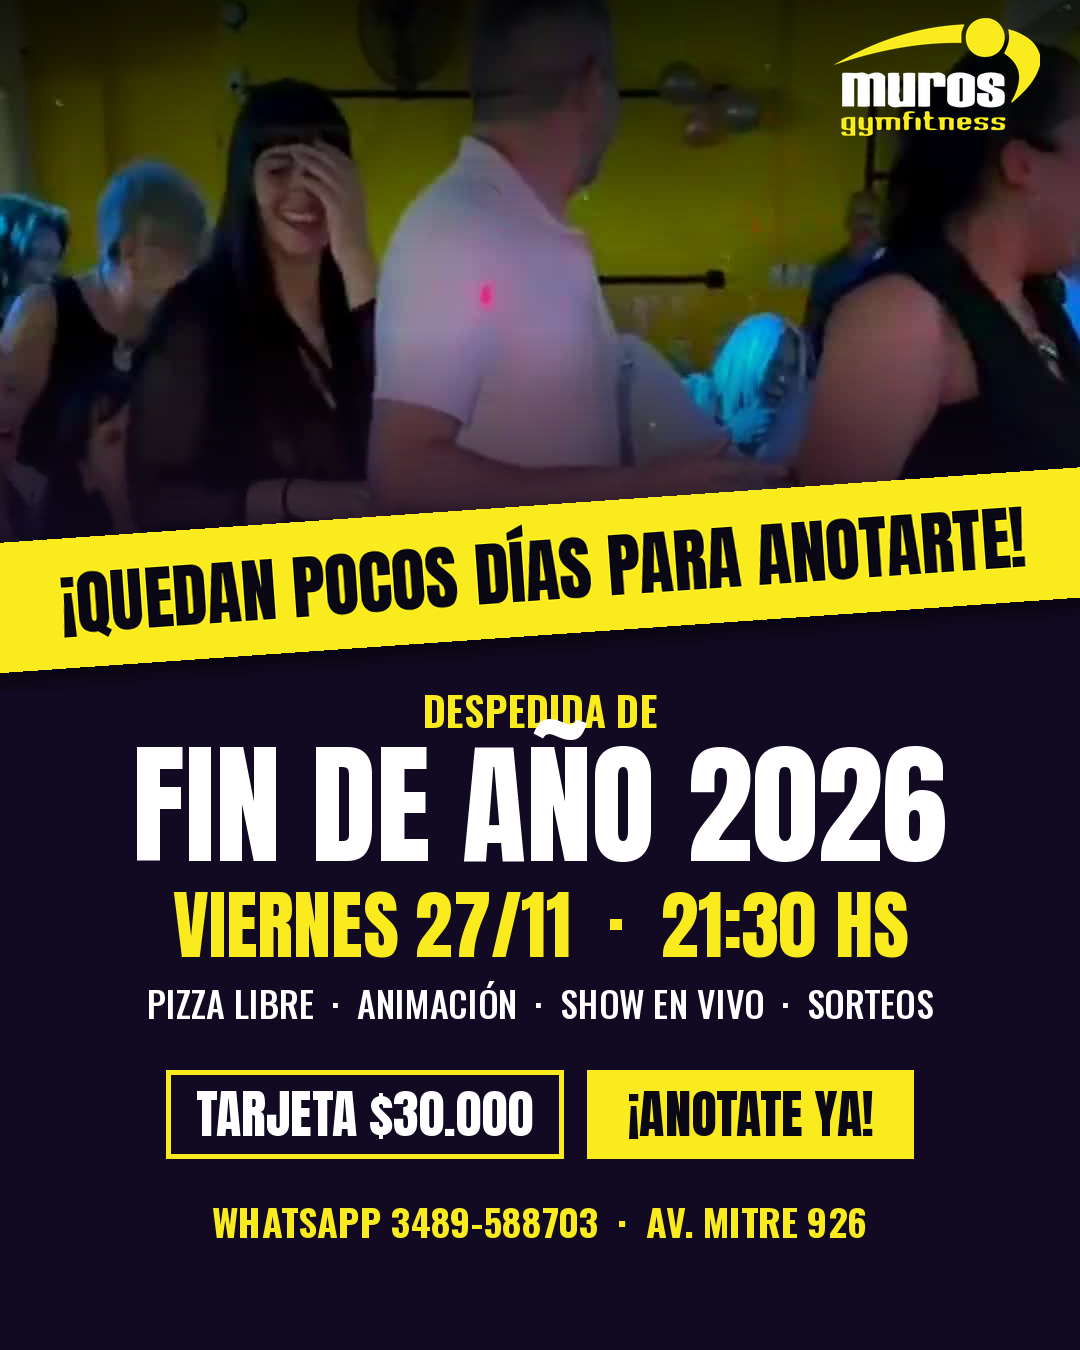
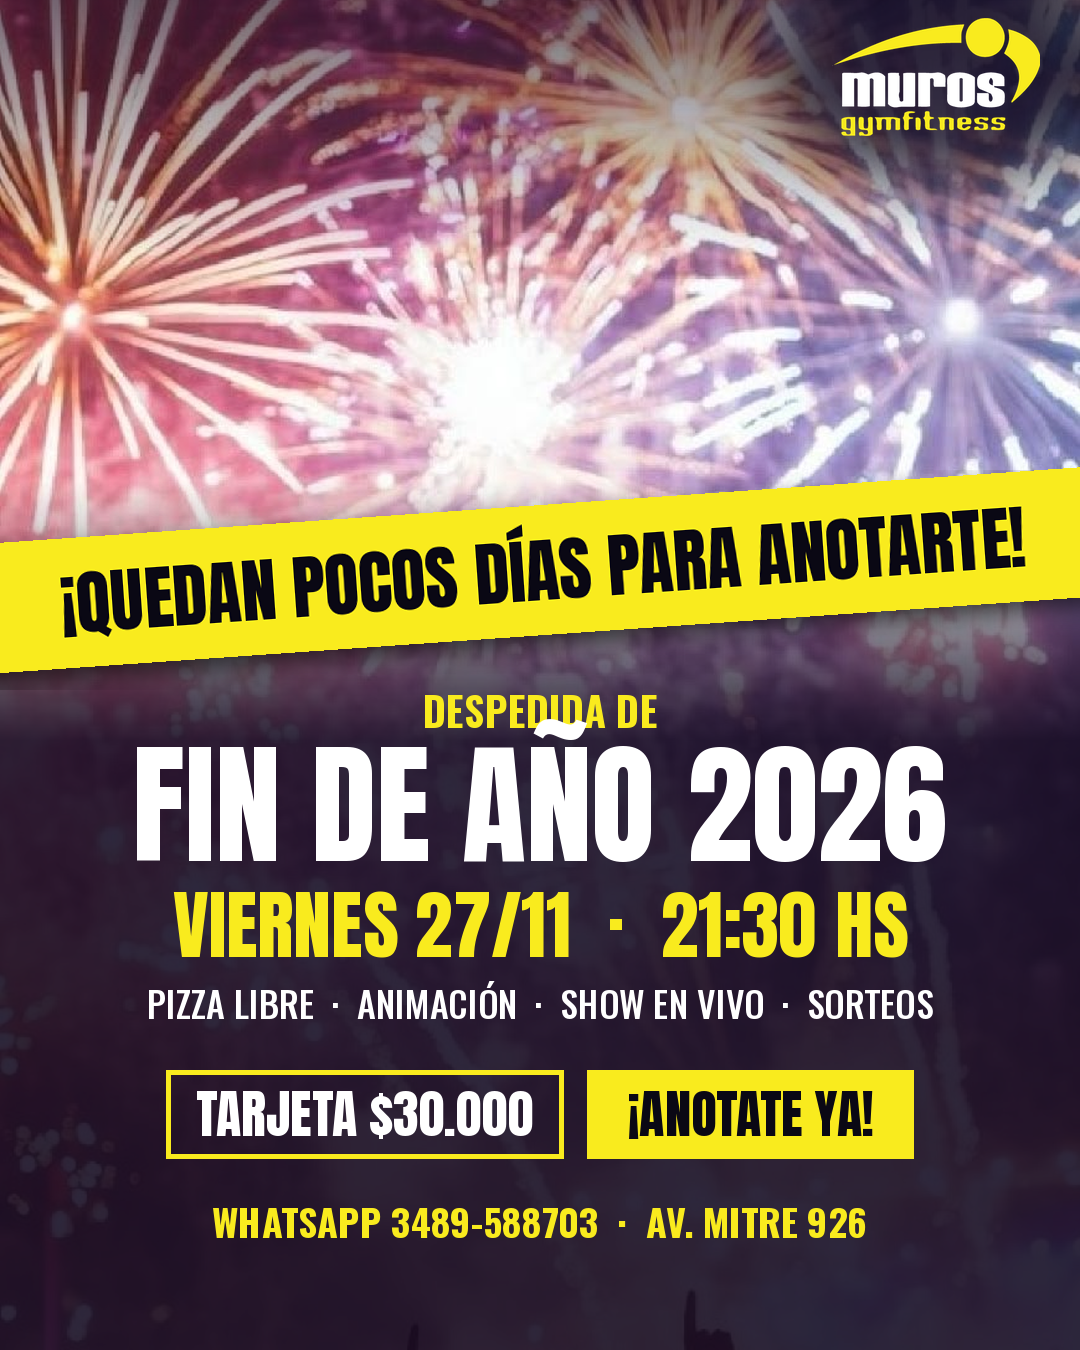
Party flyer: fireworks background photo
Claude-Session: https://claude.ai/code/session_013NcRD2AFDQkC3HztVtgsXw

diff --git a/posts/build_fiesta_ultimos_dias.py b/posts/build_fiesta_ultimos_dias.py
@@ -10,22 +10,27 @@ OSW=lambda sz,w=700: ImageFont.truetype(os.path.join(fd,f"oswald-latin-{w}-norma
 fr=lambda t: Image.open(os.path.join(here,"fiesta-frames",f"f_{t}.jpg")).convert("RGB")
 
 img=Image.new("RGBA",(W,H),BG+(255,))
-# hero: dance-floor frame, cropped clear of the video's own captions, fading into the background
-HH=660 if STORY else 600  # crop ends above the video's own captions
-hero=fr("1.8").crop((0,200,1080,200+HH))  # starts below the video's own corner logo  # native width, no upscaling: stays sharp
-hero=ImageEnhance.Brightness(hero).enhance(0.9)
-mask=Image.new("L",(W,HH),255); md=ImageDraw.Draw(mask)
-for y in range(HH):
-    md.line([(0,y),(W,y)],fill=int(255*min(1,(HH-y)/(HH*0.45))))
-img.paste(hero,(0,0),mask)
-top=Image.new("RGBA",(W,H),(0,0,0,0)); td=ImageDraw.Draw(top)
-for y in range(260):
-    td.line([(0,y),(W,y)],fill=(0,0,0,int(170*(1-y/260))))
-img=Image.alpha_composite(img,top)
+# background: fireworks photo, full bleed, darkened toward the bottom for the copy
+HH=900 if STORY else 600   # where the urgency ribbon sits
+src=Image.open(os.path.join(here,"fotos","fuegos-artificiales.jpg")).convert("RGB")
+sc=max(W/src.width,H/src.height); bgp=src.resize((round(src.width*sc),round(src.height*sc)),Image.LANCZOS)
+ox=(bgp.width-W)//2; oy=0 if STORY else round(bgp.height*0.08)
+img=bgp.crop((ox,oy,ox+W,oy+H)).convert("RGBA")
+ov=Image.new("RGBA",(W,H),(0,0,0,0)); od=ImageDraw.Draw(ov)
+for y in range(H):
+    a_=0
+    if y<260: a_=int(150*(1-y/260))
+    g0=HH-120
+    if y>g0: a_=max(a_,int(225*min(1,(y-g0)/260)))
+    od.line([(0,y),(W,y)],fill=BG+(a_,))
+img=Image.alpha_composite(img,ov)
 T=210 if STORY else 0
 logo=Image.open(os.path.join(here,"logo-muros.png")).convert("RGBA")
 logo.thumbnail((260,150) if STORY else (210,118),Image.LANCZOS)
-img.alpha_composite(logo,(W-40-logo.width,T+(30 if STORY else 18)))
+lx,ly=W-40-logo.width,T+(30 if STORY else 18)
+halo=Image.new("RGBA",(W,H),(0,0,0,0)); ImageDraw.Draw(halo).ellipse((lx-50,ly-40,lx+logo.width+50,ly+logo.height+40),fill=BG+(200,))
+img=Image.alpha_composite(img,halo.filter(ImageFilter.GaussianBlur(30)))  # keeps the logo readable over bright fireworks
+img.alpha_composite(logo,(lx,ly))
 
 # urgency ribbon across the bottom of the photo
 rb=Image.new("RGBA",(W+200,130),Y+(255,)); rd=ImageDraw.Draw(rb)
@@ -37,7 +42,7 @@ img.alpha_composite(sh.filter(ImageFilter.GaussianBlur(10)),(-100,y0+10))
 img.alpha_composite(rb,(-100,y0))
 d=ImageDraw.Draw(img)
 
-y=HH+(290 if STORY else 110)
+y=HH+(150 if STORY else 110)
 d.text((W//2,y),"DESPEDIDA DE",font=OSW(40),fill=Y,anchor="mm")
 d.text((W//2,y+95),"FIN DE AÑO 2026",font=ANTON(132),fill="white",anchor="mm")
 d.text((W//2,y+215),"VIERNES 27/11  ·  21:30 HS",font=ANTON(76),fill=Y,anchor="mm")
